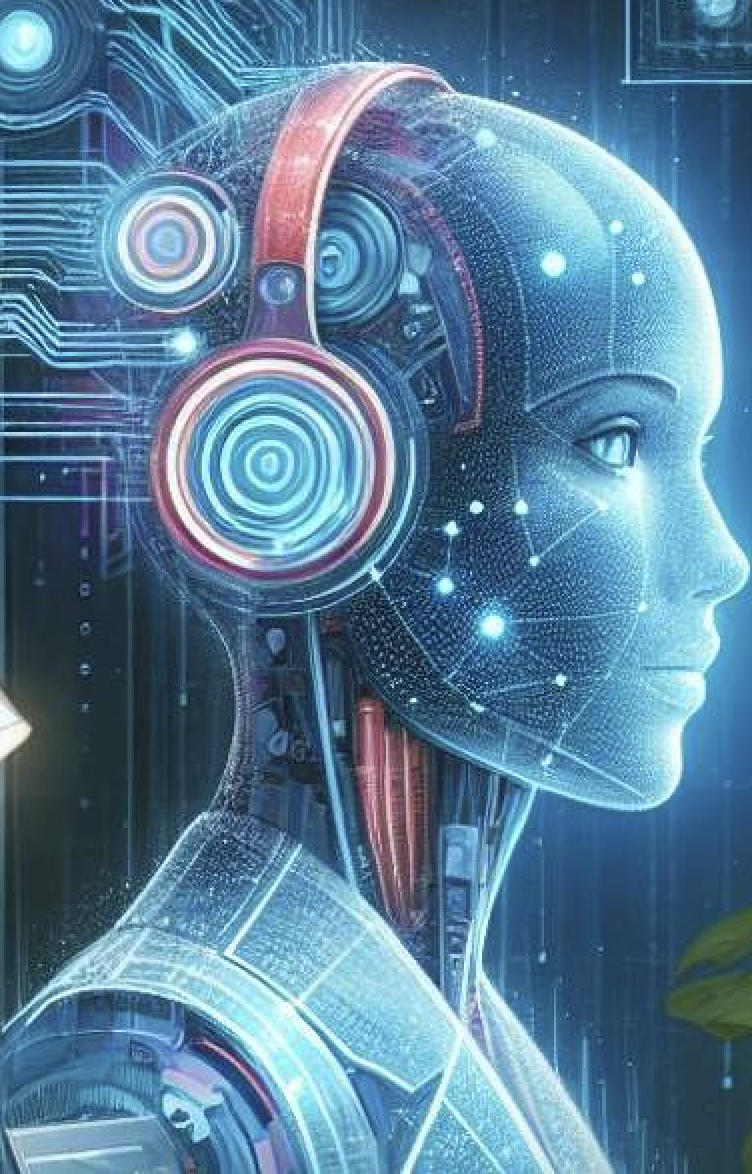
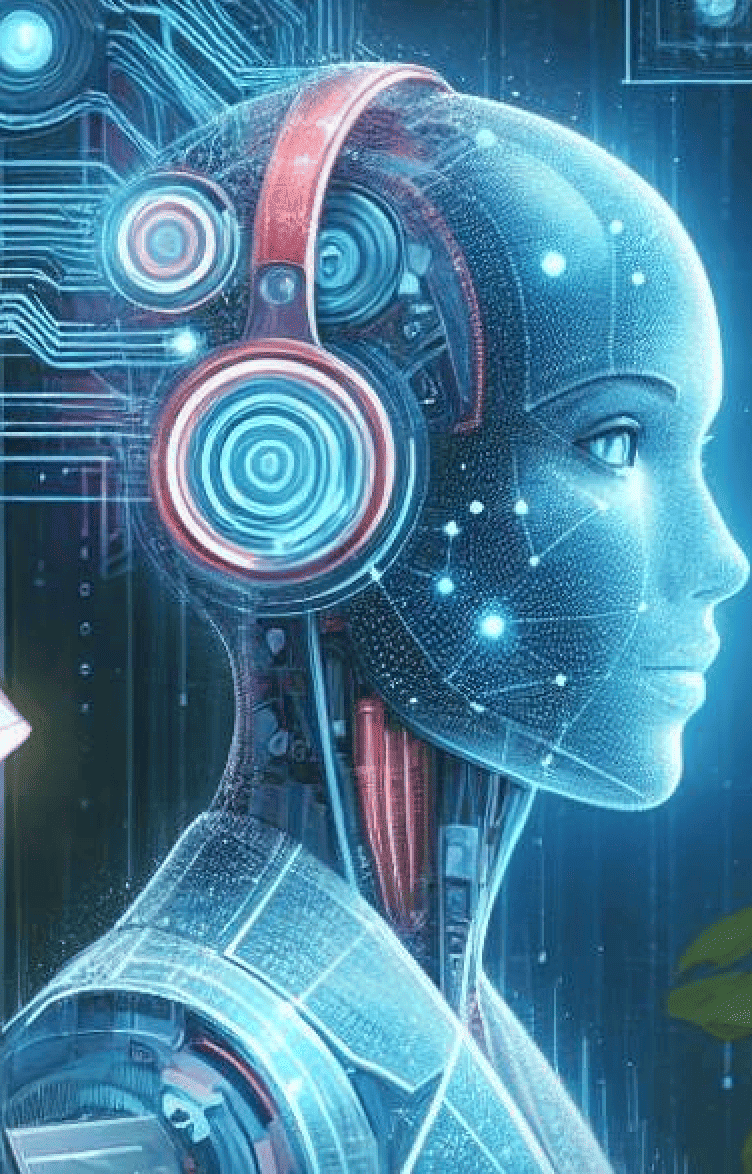
Ajuste diseño

diff --git a/src/pages/login/login.html b/src/pages/login/login.html
@@ -1,6 +1,3 @@
-<header id="appHeader" class="app-header">
-  <div id="appMenu"></div>
-</header>
 <!-- Login -->
 <div class="card" id="card-login">
     <div class="caja login-form">
@@ -16,13 +13,6 @@
                 <input type="password" id="contraseña" name="contraseña" placeholder="Mínimo 8 caracteres." required>
                 <div id="fuerza-contraseña" style="height: 10px; border-radius: 5px; margin-bottom: 5px;"></div>
                 <span id="mensaje-contraseña" style="font-size: 0.9em; font-weight: bold;"></span>
-                <label>
-                    Rol
-                    <select id="role" required>
-                    <option value="user">Usuario</option>
-                    <option value="admin">Administrador</option>
-                    </select>
-                </label>
                 <a href="#">¿Olvidaste tu contraseña?</a>
 
                 <div class="botones">
@@ -43,49 +33,48 @@
             <h1>REGISTRO</h1>
         </div>
         <form id="form-registro">
-            <div class="imput imput-r">
-                <div class="izq">
-                    <label for="nombre">Nombres:</label>
-                    <input type="text" id="nombre" name="nombre" placeholder="Ingrese su nombre" required>
-
-                    <label for="apellido">Apellidos:</label>
-                    <input type="text" id="apellido" name="apellido" placeholder="Ingrese su apellido" required>
-
-                    <label for="correo">Correo:</label>
-                    <input type="email" id="correo-reg" name="correo" placeholder="Ingrese su correo" required>
-
-                    <label for="contraseña">Contraseña:</label>
-                    <input type="password" id="contraseña-reg" name="contraseña" placeholder="Mínimo 8 caracteres." required>
-                    <div id="fuerza-contraseña-registro" style="height: 10px; border-radius: 5px; margin-bottom: 5px;"></div>
-                    <span id="mensaje-contraseña-registro" style="font-size: 0.9em; font-weight: bold;"></span>
-
-                    <label for="confirmar-contraseña">Confirmar Contraseña:</label>
-                    <input type="password" id="confirmar-contraseña" name="confirmar-contraseña" placeholder="Mínimo 8 caracteres." required>
+            <div class="container-input">
+                <label for="nombre">Nombres:</label>
+                <input type="text" id="nombre" name="nombre" placeholder="Ingrese su nombre" required>
+            </div>
+            <div class="container-input">
+                <label for="apellido">Apellidos:</label>
+                <input type="text" id="apellido" name="apellido" placeholder="Ingrese su apellido" required>
+            </div>
+            <div class="container-input">
+                <label for="direccion">Dirección:</label>
+                <input type="text" id="direccion" name="direccion" placeholder="Ingrese su dirección" required>
+            </div>
+            <div class="container-input">
+                <label for="telefono">Teléfono:</label>
+                <input type="text" id="telefono" name="telefono" placeholder="Ingrese su teléfono" required>
+            </div>
+            <div class="container-input">
+                <label for="correo">Correo:</label>
+                <input type="email" id="correo-reg" name="correo" placeholder="Ingrese su correo" required>
+            </div>
+            <div class="container-input">
+                <label for="contraseña">Contraseña:</label>
+                <input type="password" id="contraseña-reg" name="contraseña" placeholder="Mínimo 8 caracteres."
+                    required>
+                <div id="fuerza-contraseña-registro" style="height: 10px; border-radius: 5px; margin-bottom: 5px;">
                 </div>
-                <div class="registro">
-                    <label for="direccion">Dirección:</label>
-                    <input type="text" id="direccion" name="direccion" placeholder="Ingrese su dirección" required>
-
-                    <label for="telefono">Teléfono:</label>
-                    <input type="text" id="telefono" name="telefono" placeholder="Ingrese su teléfono" required>
-
-                    <label for="rol">Rol:</label>
-                    <select id="rol" name="rol" required>
-                        <option value="" disabled selected>Seleccione un rol</option>
-                        <option value="usuario">Usuario</option>
-                        <option value="administrador">Administrador</option>
-                        </select>
-
-                    <div class="botones">
-                        <button type="submit">Registrarse</button>
-                        <button type="button" id="btn-volver-login">Volver al Login</button>
-                    </div>
-                    <div id="mensaje-exito-registro" style="margin-top: 10px; font-weight: bold; color: green;"></div>
+                <span id="mensaje-contraseña-registro" style="font-size: 0.9em; font-weight: bold;"></span>
+            </div>
+            <div class="container-input">
+                <label for="confirmar-contraseña">Confirmar Contraseña:</label>
+                <input type="password" id="confirmar-contraseña" name="confirmar-contraseña"
+                    placeholder="Mínimo 8 caracteres." required>
+            </div>
+            <div class="container-input">
+                <div class="botones">
+                    <button type="submit">Registrarse</button>
+                    <button type="button" id="btn-volver-login">Volver al Login</button>
                 </div>
             </div>
+            <div id="mensaje-exito-registro" style="margin-top: 10px; font-weight: bold; color: green;"></div>
         </form>
     </div>
 </div>
 <!-- Imagen -->
 <!-- Se elimina el </div> sobrante que rompía el layout -->
-

diff --git a/src/pages/login/login.css b/src/pages/login/login.css
@@ -54,7 +54,7 @@ body {
     padding: 32px;
     gap: 24px;
     transition: all 0.3s ease-in-out;
-    display: flex !important;
+    display: flex;
     flex-direction: row !important;
 }
 
@@ -218,7 +218,7 @@ body {
         width: 100%;
         height: auto;
         object-fit: contain;
-        display: block;
+        display: none;
         align-self: center;
         justify-self: center;
     }
@@ -231,6 +231,9 @@ body {
         border-radius: 5px;
         background: white;
         color: #333;
+    }
+    .login-form, .register-form {
+        align-items: center;
     }
 }
 
@@ -311,4 +314,25 @@ body {
 /* No toques la visibilidad de los forms por defecto para evitar “desapariciones” */
 .login-form, .register-form {
     transition: none; /* la animación se hace a nivel de .card */
+}
+
+#form-registro{
+    display: flex;
+    flex-wrap: wrap;
+    gap: 12px;
+}
+
+.container-input{
+    width: 48%;
+}
+
+.container-input input, .container-input div, .container-input span{
+    margin: 0px;
+}
+
+/* En móviles se mantiene el toggle */
+@media (max-width: 640px) {
+    .container-input{
+        width: 100%;
+    }
 }

diff --git a/src/components/menu/menu.js b/src/components/menu/menu.js
@@ -7,7 +7,6 @@ import { navigateTo } from '../../main';
 export function mountMenu(rootId = 'appMenu') {
     const root = document.getElementById(rootId);
     if (!root) return false;
-
     root.innerHTML = menuTemplate;
 
     const toggle = root.querySelector('.menu-toggle');
@@ -56,6 +55,10 @@ export function mountMenu(rootId = 'appMenu') {
             toggle?.setAttribute('aria-expanded', 'false');
         }
     });
+    
+    if (!isAuthenticated())  {
+        root.classList.add('desactive');
+    }
 
     return true;
 }
@@ -84,4 +87,13 @@ function setActiveByRoute(root, route) {
         return r && (route.startsWith(r) || (route === '/' && r === '/dashboard'));
     });
     if (match) match.classList.add('active');
+}
+
+export function isAuthenticated() {
+    try {
+        const user = localStorage.getItem('user');
+        return !!user && JSON.parse(user);
+    } catch {
+        return false;
+    }
 }

diff --git a/src/main.js b/src/main.js
@@ -123,6 +123,7 @@ export default async function router() {
   
 // Cuando carga la página
 document.addEventListener('DOMContentLoaded', () => {
+  const u = getCurrentUser();
   autoMountMenu('appMenu');
   router();
 });

diff --git a/src/components/menu/menu.css b/src/components/menu/menu.css
@@ -225,3 +225,7 @@
         padding: 8px 0 12px;
     }
 }
+
+.desactive {
+    display: none;
+}
